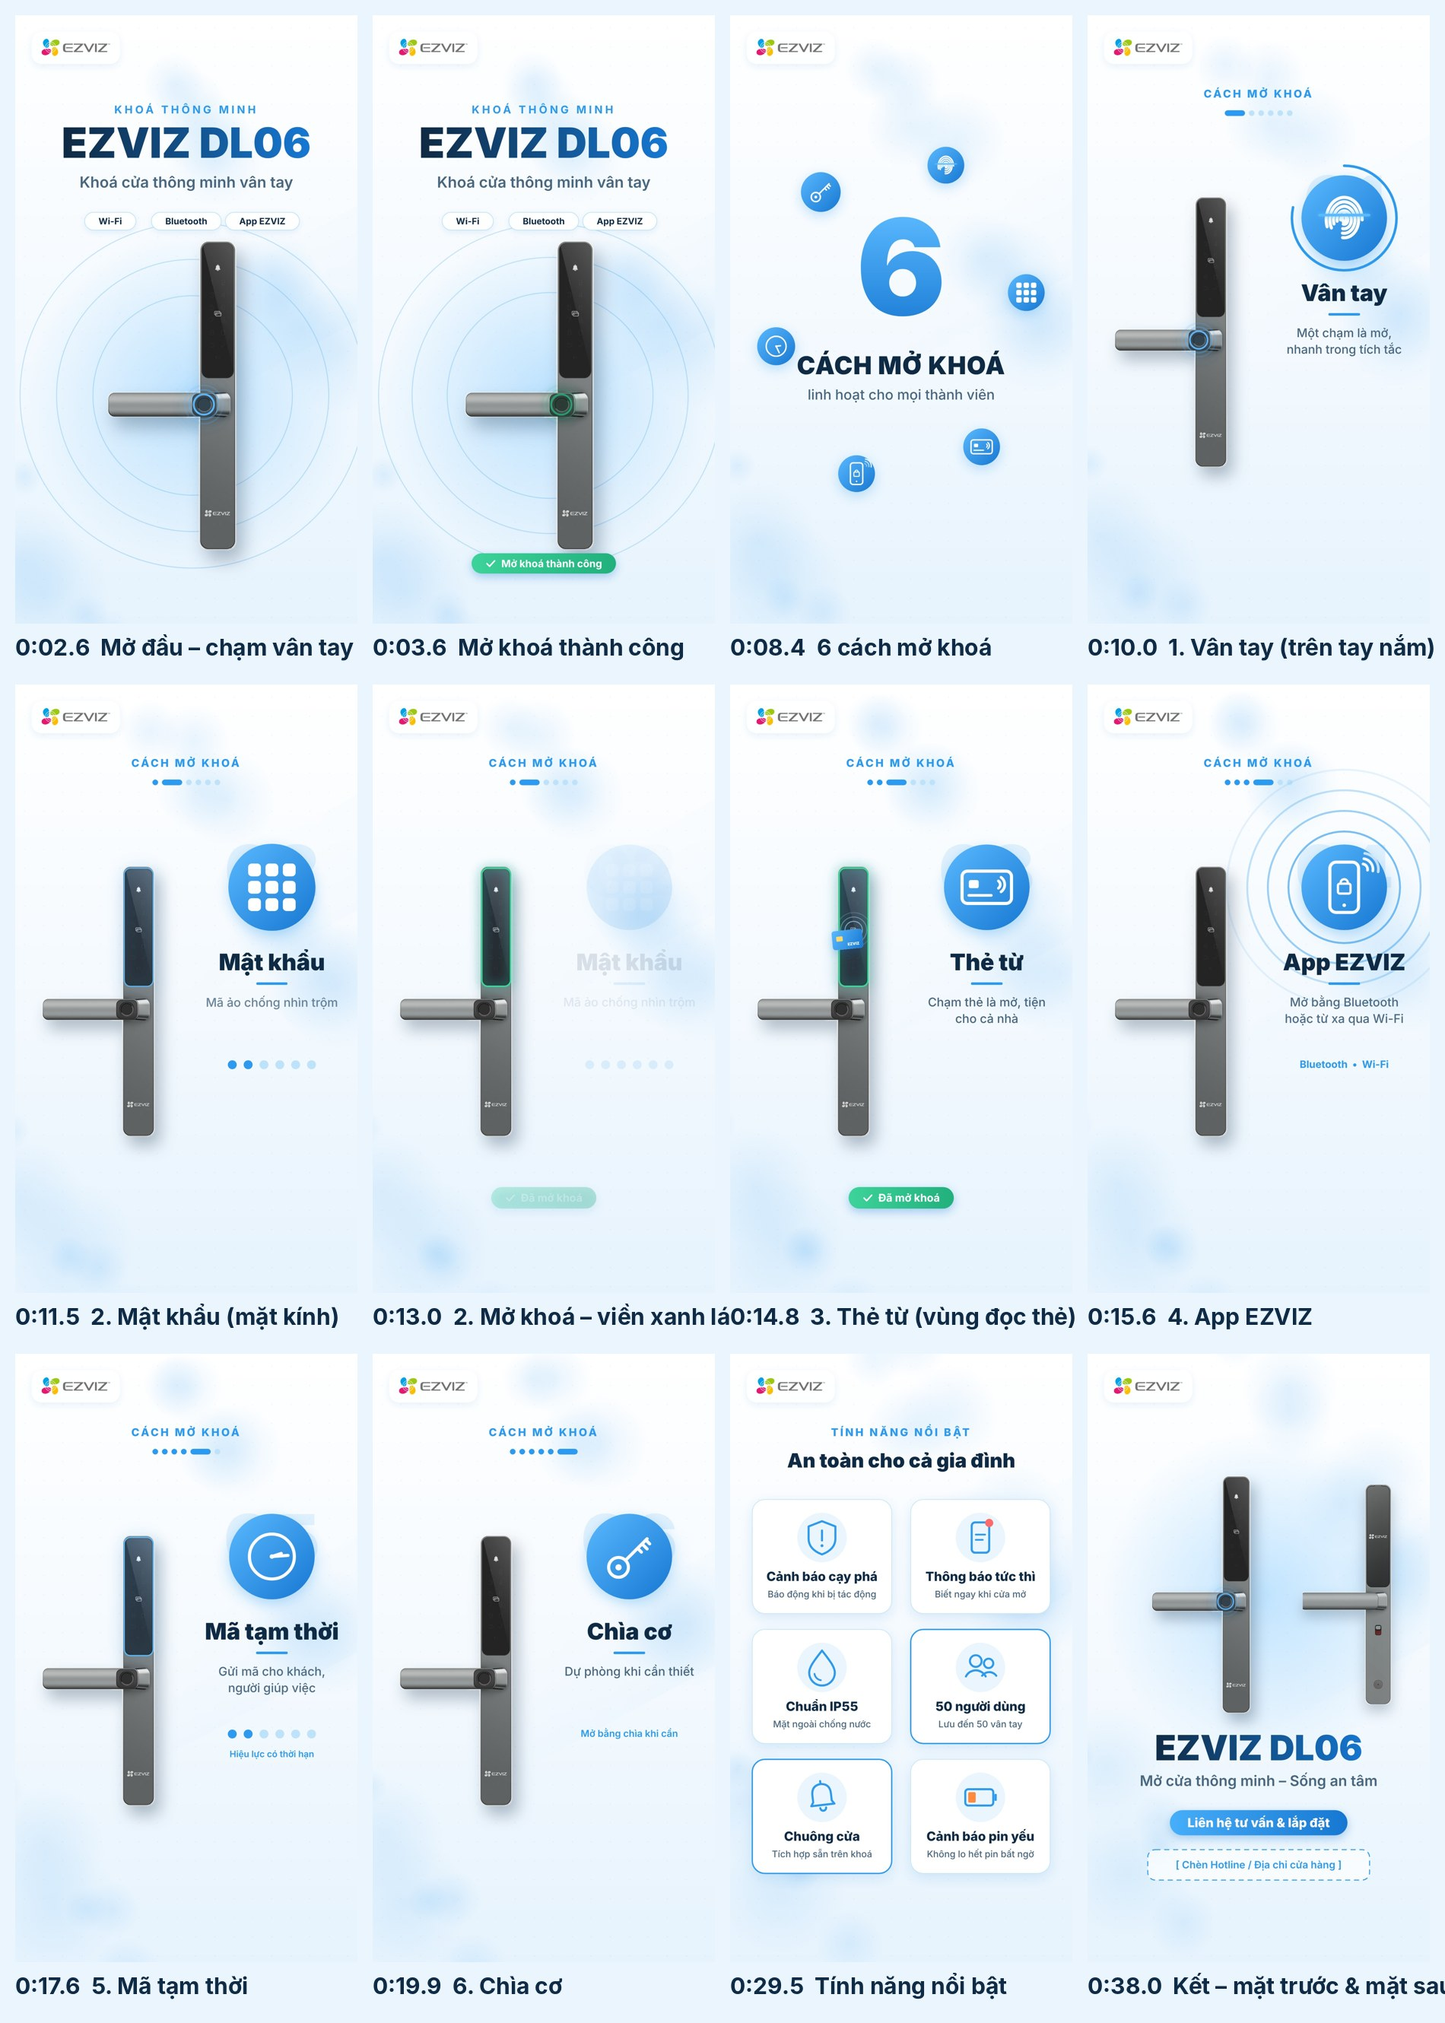
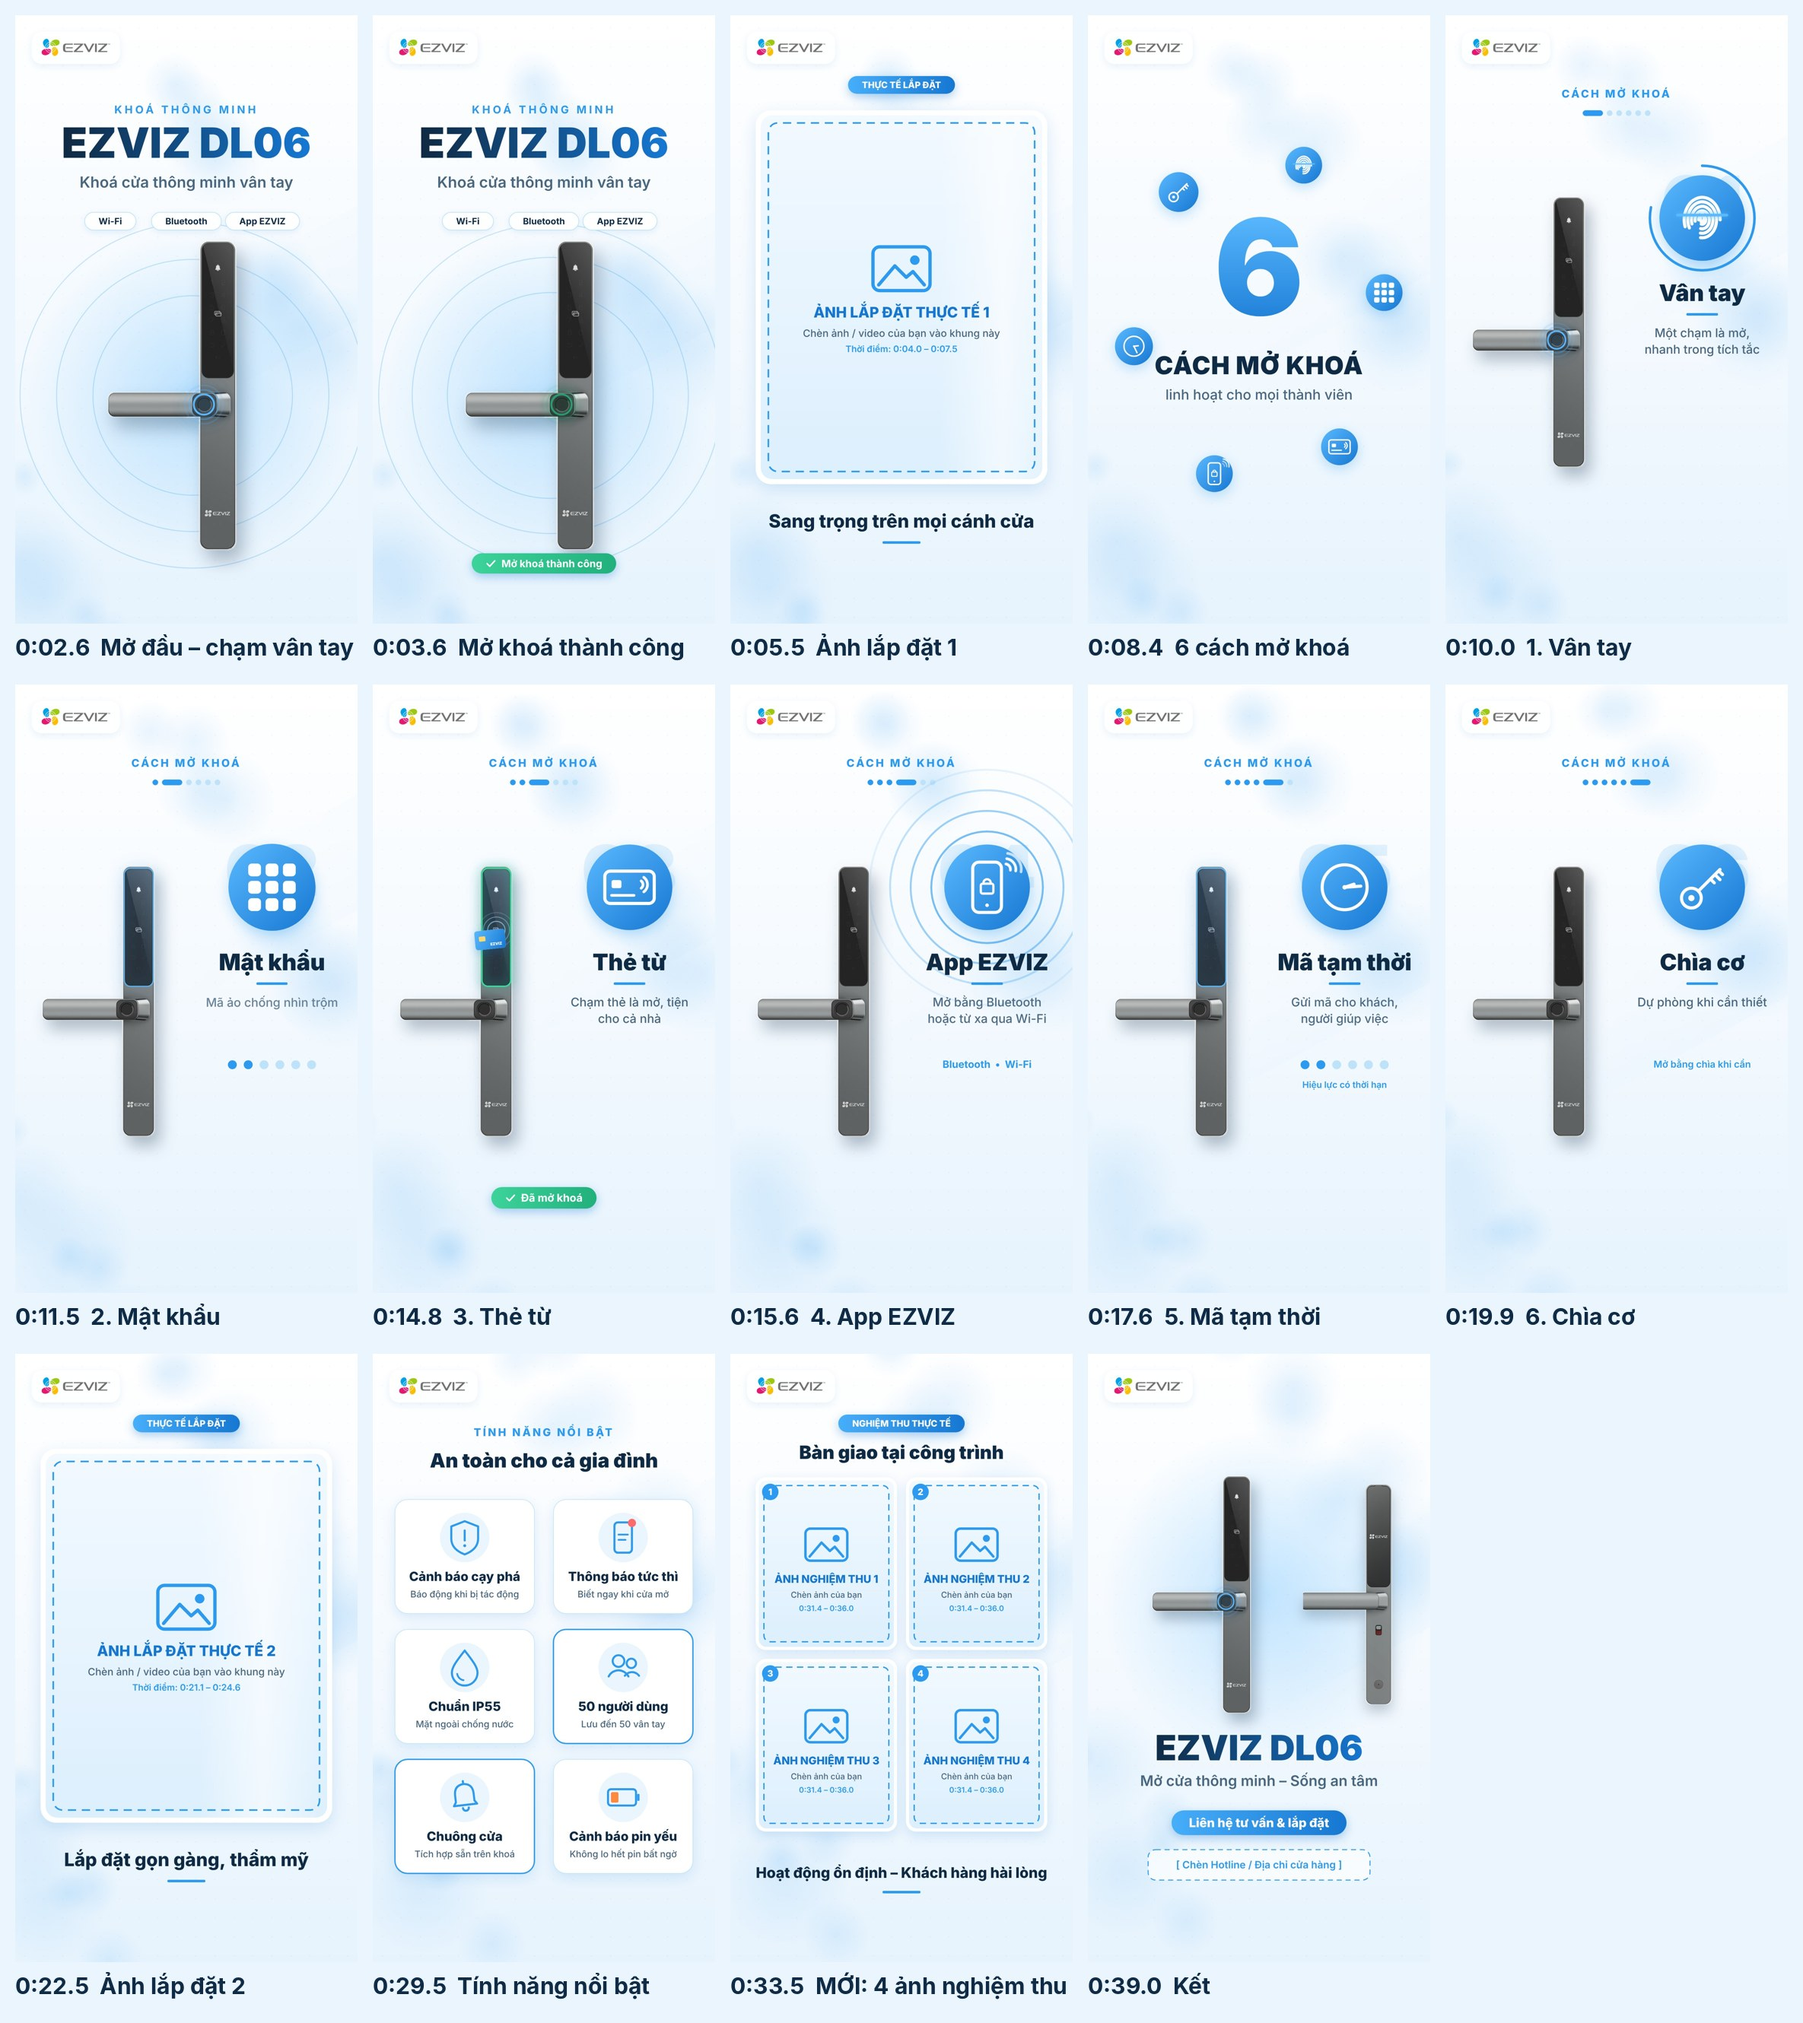
Add 4-photo acceptance (nghiem thu) gallery scene
Replaces the third single-photo slot with a 2x2 gallery at 0:31.4-0:36.0;
video is now 40s. Updates guide, preview sheet and music timing.

Claude-Session: https://claude.ai/code/session_012BtV5bq3i1NFCJXawQ22hz

diff --git a/ezviz-dl06-video/video.html b/ezviz-dl06-video/video.html
@@ -21,8 +21,14 @@ const CONFIG = {
   slots: [
     { label: 'ẢNH LẮP ĐẶT THỰC TẾ 1', caption: 'Sang trọng trên mọi cánh cửa' },
     { label: 'ẢNH LẮP ĐẶT THỰC TẾ 2', caption: 'Lắp đặt gọn gàng, thẩm mỹ' },
-    { label: 'ẢNH LẮP ĐẶT THỰC TẾ 3', caption: 'Công trình thực tế' },
   ],
+  // Cảnh nghiệm thu: 4 ô ảnh (anh/nghiemthu1.jpg ... nghiemthu4.jpg)
+  gallery: {
+    chip: 'NGHIỆM THU THỰC TẾ',
+    title: 'Bàn giao tại công trình',
+    caption: 'Hoạt động ổn định – Khách hàng hài lòng',
+    labels: ['ẢNH NGHIỆM THU 1', 'ẢNH NGHIỆM THU 2', 'ẢNH NGHIỆM THU 3', 'ẢNH NGHIỆM THU 4'],
+  },
   methods: [
     { icon: 'finger', hl: 'finger', title: 'Vân tay',      desc: 'Một chạm là mở, nhanh trong tích tắc' },
     { icon: 'keypad', hl: 'keypad', title: 'Mật khẩu',     desc: 'Mã ảo chống nhìn trộm' },
@@ -44,7 +50,7 @@ const CONFIG = {
   contact: '',   // VD: 'Hotline: 0909 xxx xxx' — để trống sẽ hiện ô trống để tự chèn
 };
 
-/* Ảnh do render.js nạp vào (anh/slot1.jpg, anh/slot2.jpg, anh/slot3.jpg, anh/logo.png) */
+/* Ảnh do render.js nạp vào (anh/slot1.jpg, anh/slot2.jpg, anh/nghiemthu1-4.jpg, anh/logo.png) */
 window.ASSETS = window.ASSETS || {};
 const IMG = {};
 window.loadAssets = async (assets) => {
@@ -70,10 +76,10 @@ const SCENES = [
   { id: 'methods',  start: 9.1,  dur: 12.0 },   // 6 x 2.0s
   { id: 'slot1',    start: 21.1, dur: 3.5 },
   { id: 'features', start: 24.6, dur: 6.8 },
-  { id: 'slot2',    start: 31.4, dur: 3.5 },
-  { id: 'outro',    start: 34.9, dur: 4.1 },
+  { id: 'gallery',  start: 31.4, dur: 4.6 },
+  { id: 'outro',    start: 36.0, dur: 4.0 },
 ];
-const DURATION = 39.0;
+const DURATION = 40.0;
 window.VIDEO_META = { FPS, DURATION, SCENES, methodStart: 9.1, methodDur: 2.0 };
 
 /* ===================== Tiện ích ===================== */
@@ -572,6 +578,57 @@ function sceneFeatures(t, dur) {
   });
 }
 
+
+function coverImage(img, x, y, w, h, z) {
+  const ar = img.width / img.height, br = w / h;
+  let dw, dh; if (ar > br) { dh = h; dw = dh * ar; } else { dw = w; dh = dw / ar; }
+  dw *= z; dh *= z; ctx.drawImage(img, x + w / 2 - dw / 2, y + h / 2 - dh / 2, dw, dh);
+}
+function sceneGallery(t, dur) {
+  const G = CONFIG.gallery;
+  const ha = eOut(prog(t, 0, .5));
+  ctx.save(); ctx.globalAlpha *= ha;
+  pill(G.chip, W / 2, 220, { size: 28, weight: 800, solid: true });
+  text(G.title, W / 2, 315 - (1 - ha) * 20, { size: 58, weight: 900, color: C.ink });
+  ctx.restore();
+  const gap = 28, x0 = 80, y0 = 390, cw = (920 - gap) / 2, ch = 545;
+  const sc = SCENES.find(q => q.id === 'gallery');
+  for (let i = 0; i < 4; i++) {
+    const col = i % 2, row = Math.floor(i / 2);
+    const x = x0 + col * (cw + gap), y = y0 + row * (ch + gap);
+    const k = eBack(prog(t, .25 + i * .22, .8 + i * .22));
+    if (k <= 0) continue;
+    const img = IMG['nghiemthu' + (i + 1)];
+    ctx.save(); ctx.globalAlpha *= clamp(k);
+    ctx.translate(x + cw / 2, y + ch / 2); const z = clamp(k, 0, 1.1); ctx.scale(lerp(.85, 1, z), lerp(.85, 1, z)); ctx.translate(-cw / 2, -ch / 2);
+    shadowCard(0, 0, cw, ch, 32, '#FFFFFF', 36, .16);
+    ctx.save(); rr(10, 10, cw - 20, ch - 20, 24); ctx.clip();
+    if (img) coverImage(img, 10, 10, cw - 20, ch - 20, 1.03 + .07 * (t / dur));
+    else {
+      const g = ctx.createLinearGradient(0, 0, 0, ch); g.addColorStop(0, '#F2F9FF'); g.addColorStop(1, '#DCEFFD');
+      ctx.fillStyle = g; ctx.fillRect(0, 0, cw, ch);
+    }
+    ctx.restore();
+    if (!img) {
+      ctx.save(); ctx.setLineDash([20, 14]); ctx.lineDashOffset = -t * 40; ctx.strokeStyle = C.blue; ctx.lineWidth = 4;
+      rr(26, 26, cw - 52, ch - 52, 20); ctx.stroke(); ctx.restore();
+      icon('image', cw / 2, ch / 2 - 60, 110, C.blue);
+      text(G.labels[i], cw / 2, ch / 2 + 50, { size: 34, weight: 800, color: C.blueD });
+      text('Chèn ảnh của bạn', cw / 2, ch / 2 + 100, { size: 26, weight: 500, color: C.ink2 });
+      text(`${fmt(sc.start)} – ${fmt(sc.start + sc.dur)}`, cw / 2, ch / 2 + 142, { size: 24, weight: 600, color: C.blue });
+    }
+    // huy hiệu số thứ tự
+    ctx.beginPath(); ctx.arc(46, 46, 26, 0, 6.3); ctx.fillStyle = C.blue; ctx.fill();
+    text(String(i + 1), 46, 48, { size: 28, weight: 800, color: '#fff' });
+    ctx.restore();
+  }
+  const ca = eOut(prog(t, 1.3, 1.9));
+  ctx.save(); ctx.globalAlpha *= ca;
+  text(G.caption, W / 2, 1640 + (1 - ca) * 30, { size: 46, weight: 800, color: C.ink });
+  ctx.fillStyle = C.blue; rr(W / 2 - 60 * ca, 1695, 120 * ca, 8, 4); ctx.fill();
+  ctx.restore();
+}
+
 function sceneOutro(t, dur) {
   const lk = eOut(prog(t, 0, .8));
   ctx.save();
@@ -610,7 +667,7 @@ function sceneOutro(t, dur) {
 /* ===================== Render một khung hình ===================== */
 const DRAW = {
   intro: sceneIntro, mintro: sceneMIntro, methods: sceneMethods, features: sceneFeatures, outro: sceneOutro,
-  slot0: (t, d) => slotScene(t, d, 0), slot1: (t, d) => slotScene(t, d, 1), slot2: (t, d) => slotScene(t, d, 2),
+  slot0: (t, d) => slotScene(t, d, 0), slot1: (t, d) => slotScene(t, d, 1), gallery: sceneGallery,
 };
 function render(T) {
   ctx.setTransform(1, 0, 0, 1, 0, 0); ctx.globalAlpha = 1;

diff --git a/ezviz-dl06-video/render.js b/ezviz-dl06-video/render.js
@@ -1,7 +1,7 @@
 // Render video.html -> EZVIZ_DL06.mp4
 // Cách dùng:  node render.js            (render toàn bộ)
 //             node render.js --preview  (xuất vài ảnh PNG xem trước)
-// Ảnh tuỳ chọn trong thư mục anh/: slot1.jpg, slot2.jpg, slot3.jpg (ảnh lắp đặt), logo.png (logo EZVIZ gốc)
+// Ảnh trong thư mục anh/: slot1.jpg, slot2.jpg (ảnh lắp đặt), nghiemthu1..4.jpg (ảnh nghiệm thu), logo.png
 const { chromium } = require('playwright');
 const fs = require('fs');
 const path = require('path');
@@ -16,7 +16,7 @@ function assets() {
   const dir = path.join(DIR, 'anh');
   if (!fs.existsSync(dir)) return res;
   for (const f of fs.readdirSync(dir)) {
-    const m = f.match(/^(slot[123]|logo|dl06_front|dl06_back)\.(jpe?g|png|webp)$/i);
+    const m = f.match(/^(slot[12]|nghiemthu[1-4]|logo|dl06_front|dl06_back)\.(jpe?g|png|webp)$/i);
     if (!m) continue;
     const mime = m[2].toLowerCase() === 'png' ? 'image/png' : m[2].toLowerCase() === 'webp' ? 'image/webp' : 'image/jpeg';
     res[m[1].toLowerCase().replace('dl06_', '')] = `data:${mime};base64,` + fs.readFileSync(path.join(dir, f)).toString('base64');

diff --git a/ezviz-dl06-video/make_music.py b/ezviz-dl06-video/make_music.py
@@ -1,6 +1,6 @@
 # Tạo nhạc nền nhẹ nhàng (tự tổng hợp, không bản quyền) + tiếng "ting" lúc mở khoá
 import numpy as np, wave
-SR=44100; DUR=39.0; N=int(SR*DUR); t=np.arange(N)/SR
+SR=44100; DUR=40.0; N=int(SR*DUR); t=np.arange(N)/SR
 out=np.zeros(N)
 def note(f,start,length,amp,kind='pluck'):
     s=int(start*SR); n=int(length*SR); n=min(n,N-s)
@@ -38,7 +38,7 @@ while tm<DUR:
     tm+=bar; b+=1
 for ct in [2.95]+[9.1+1.2+2*i for i in range(6)]:
     note(mid(84),ct,1.0,.12,'chime'); note(mid(91),ct+.08,1.0,.10,'chime')
-for ct in [4.0,7.5,9.1,21.1,24.6,31.4,34.9]:  # whoosh chuyển cảnh
+for ct in [4.0,7.5,9.1,21.1,24.6,31.4,36.0]:  # whoosh chuyển cảnh
     s=int((ct-.3)*SR); n=int(.5*SR); tt=np.arange(n)/SR
     nz=np.convolve(np.random.randn(n),np.ones(30)/30,'same')
     out[s:s+n]+=nz*np.sin(np.pi*tt/.5)**2*.10

diff --git a/ezviz-dl06-video/HUONG_DAN.md b/ezviz-dl06-video/HUONG_DAN.md
@@ -1,14 +1,21 @@
-# Video EZVIZ DL06 (9:16, 1080x1920, 39 giây)
+# Video EZVIZ DL06 (9:16, 1080x1920, 40 giây)
 
-## Vị trí khung ảnh lắp đặt (chèn trong CapCut)
-| Khung | Thời điểm | Vùng ảnh (px trên 1080x1920) | Caption |
+## Các vị trí chèn ảnh thực tế
+| Khung | Thời điểm | Vùng ảnh (px trên 1080x1920) | File để render tự động |
 |---|---|---|---|
-| Ảnh 1 | 0:04.0 – 0:07.5 | x 96–984, y 316–1464 | Sang trọng trên mọi cánh cửa |
-| Ảnh 2 | 0:21.1 – 0:24.6 | như trên | Lắp đặt gọn gàng, thẩm mỹ |
-| Ảnh 3 | 0:31.4 – 0:34.9 | như trên | Công trình thực tế |
-| Liên hệ | 0:36.5 – 0:39.0 | ô gạch đứt cuối video | Hotline / địa chỉ |
+| Ảnh lắp đặt 1 | 0:04.0 – 0:07.5 | x 96–984, y 316–1464 | `anh/slot1.jpg` |
+| Ảnh lắp đặt 2 | 0:21.1 – 0:24.6 | x 96–984, y 316–1464 | `anh/slot2.jpg` |
+| Ảnh nghiệm thu 1 | 0:31.4 – 0:36.0 | x 90–516, y 400–925 | `anh/nghiemthu1.jpg` |
+| Ảnh nghiệm thu 2 | 0:31.4 – 0:36.0 | x 564–990, y 400–925 | `anh/nghiemthu2.jpg` |
+| Ảnh nghiệm thu 3 | 0:31.4 – 0:36.0 | x 90–516, y 973–1498 | `anh/nghiemthu3.jpg` |
+| Ảnh nghiệm thu 4 | 0:31.4 – 0:36.0 | x 564–990, y 973–1498 | `anh/nghiemthu4.jpg` |
+| Liên hệ | 0:37.5 – 0:40.0 | ô gạch đứt cuối video | sửa `contact` trong `video.html` |
 
-## Cách tự render lại có ảnh thật (không cần CapCut)
-1. Bỏ ảnh vào thư mục `anh/`: `slot1.jpg`, `slot2.jpg`, `slot3.jpg` (ảnh dọc là đẹp nhất), `logo.png` (logo EZVIZ gốc, nền trong suốt).
-2. Sửa chữ / hotline trong `CONFIG` ở đầu file `video.html`.
-3. Chạy `node render.js` → ra `EZVIZ_DL06.mp4`. (`python3 make_music.py` để tạo lại nhạc nền.)
+Ảnh nghiệm thu nên là ảnh dọc (tỉ lệ khoảng 4:5); ảnh ngang vẫn dùng được, sẽ tự cắt vừa khung.
+
+## Render lại
+1. Bỏ ảnh vào `anh/` với đúng tên file ở bảng trên (jpg/png/webp).
+2. Sửa chữ trong `CONFIG` ở đầu `video.html` (caption, tiêu đề cảnh nghiệm thu, hotline).
+3. `node render.js --preview` để xem trước khung hình (thư mục `preview/`), rồi `python3 make_music.py && node render.js` để xuất `EZVIZ_DL06.mp4`.
+
+Ảnh sản phẩm DL06 + logo: `python3 prep_images.py <thư mục ảnh gốc>` (đã tách nền sẵn trong `anh/`).
